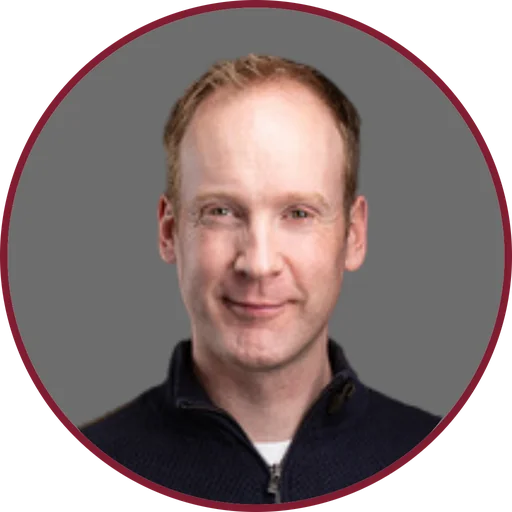
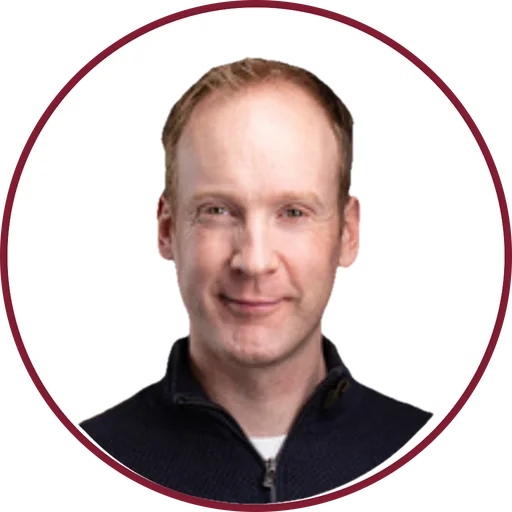
Cohort picker first in the filters; headshots for Steve Thompson (background removed) and Kat Spartz

diff --git a/public/widget.js b/public/widget.js
@@ -200,9 +200,9 @@
       }
     });
     var filtersEl = el('div', { class: 'aim-dir__filters' },
+      el('div', { class: 'aim-dir__group' }, el('label', { class: 'aim-dir__label', for: rootId + '-cohort', text: 'Cohort' }), cohortSelect),
       el('div', { class: 'aim-dir__group' }, el('p', { class: 'aim-dir__label', id: rootId + '-cause-label', text: 'Cause area' }), causeList),
-      el('div', { class: 'aim-dir__group' }, el('p', { class: 'aim-dir__label', id: rootId + '-region-label', text: 'Implementation region' }), regionList),
-      el('div', { class: 'aim-dir__group' }, el('label', { class: 'aim-dir__label', for: rootId + '-cohort', text: 'Cohort' }), cohortSelect));
+      el('div', { class: 'aim-dir__group' }, el('p', { class: 'aim-dir__label', id: rootId + '-region-label', text: 'Implementation region' }), regionList));
     var statusEl = el('p', { class: 'aim-dir__sr', id: rootId + '-status', role: 'status', 'aria-live': 'polite' });
     var gridEl = el('ul', { class: 'aim-dir__grid' });
     var footerEl = el('div', { class: 'aim-dir__footer' });
@@ -507,5 +507,5 @@
   }
   if (document.readyState === 'loading') document.addEventListener('DOMContentLoaded', autoMount); else autoMount();
 
-  global.AimDirectory = { mount: mount, version: '0.5.0' };
+  global.AimDirectory = { mount: mount, version: '0.5.1' };
 })(window);
